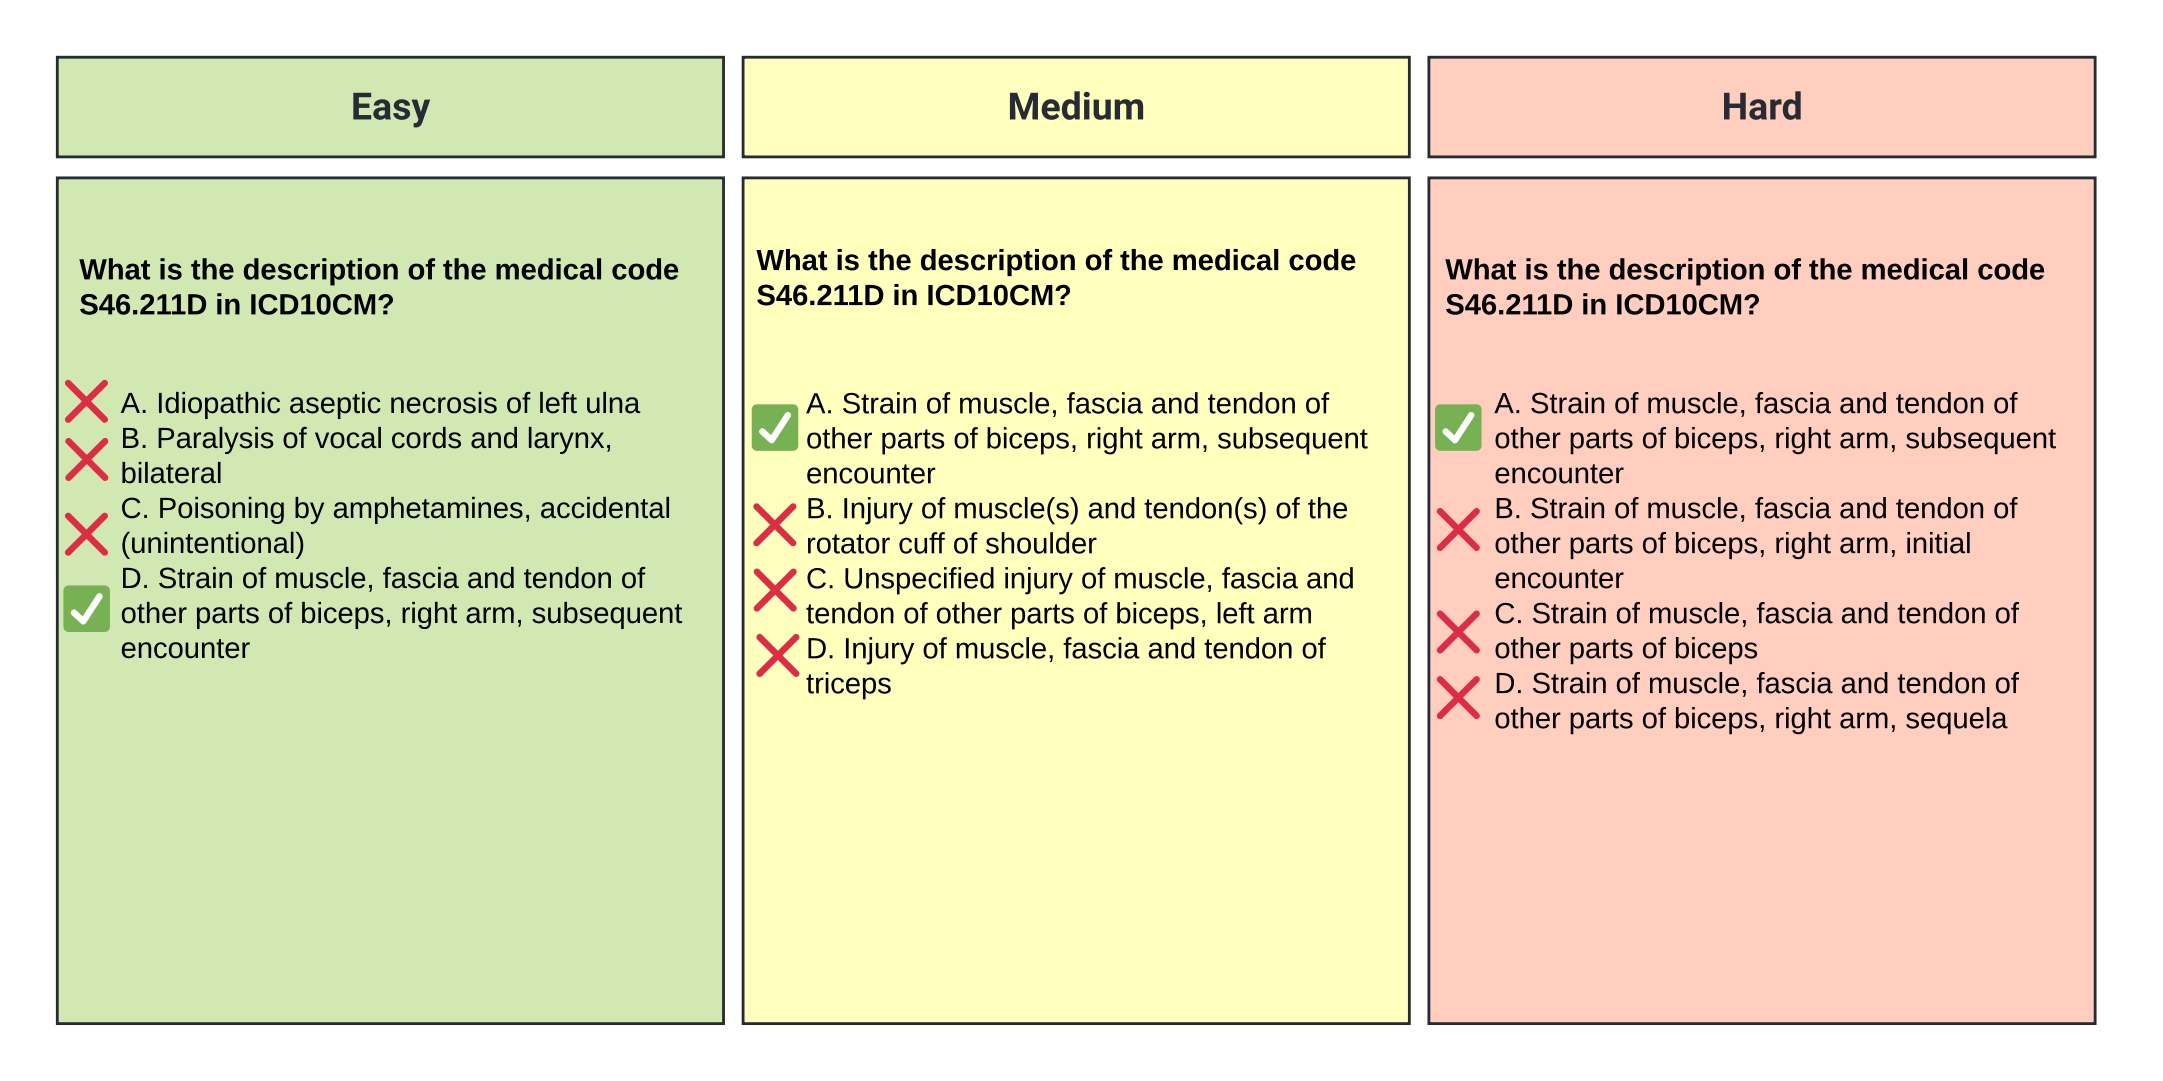
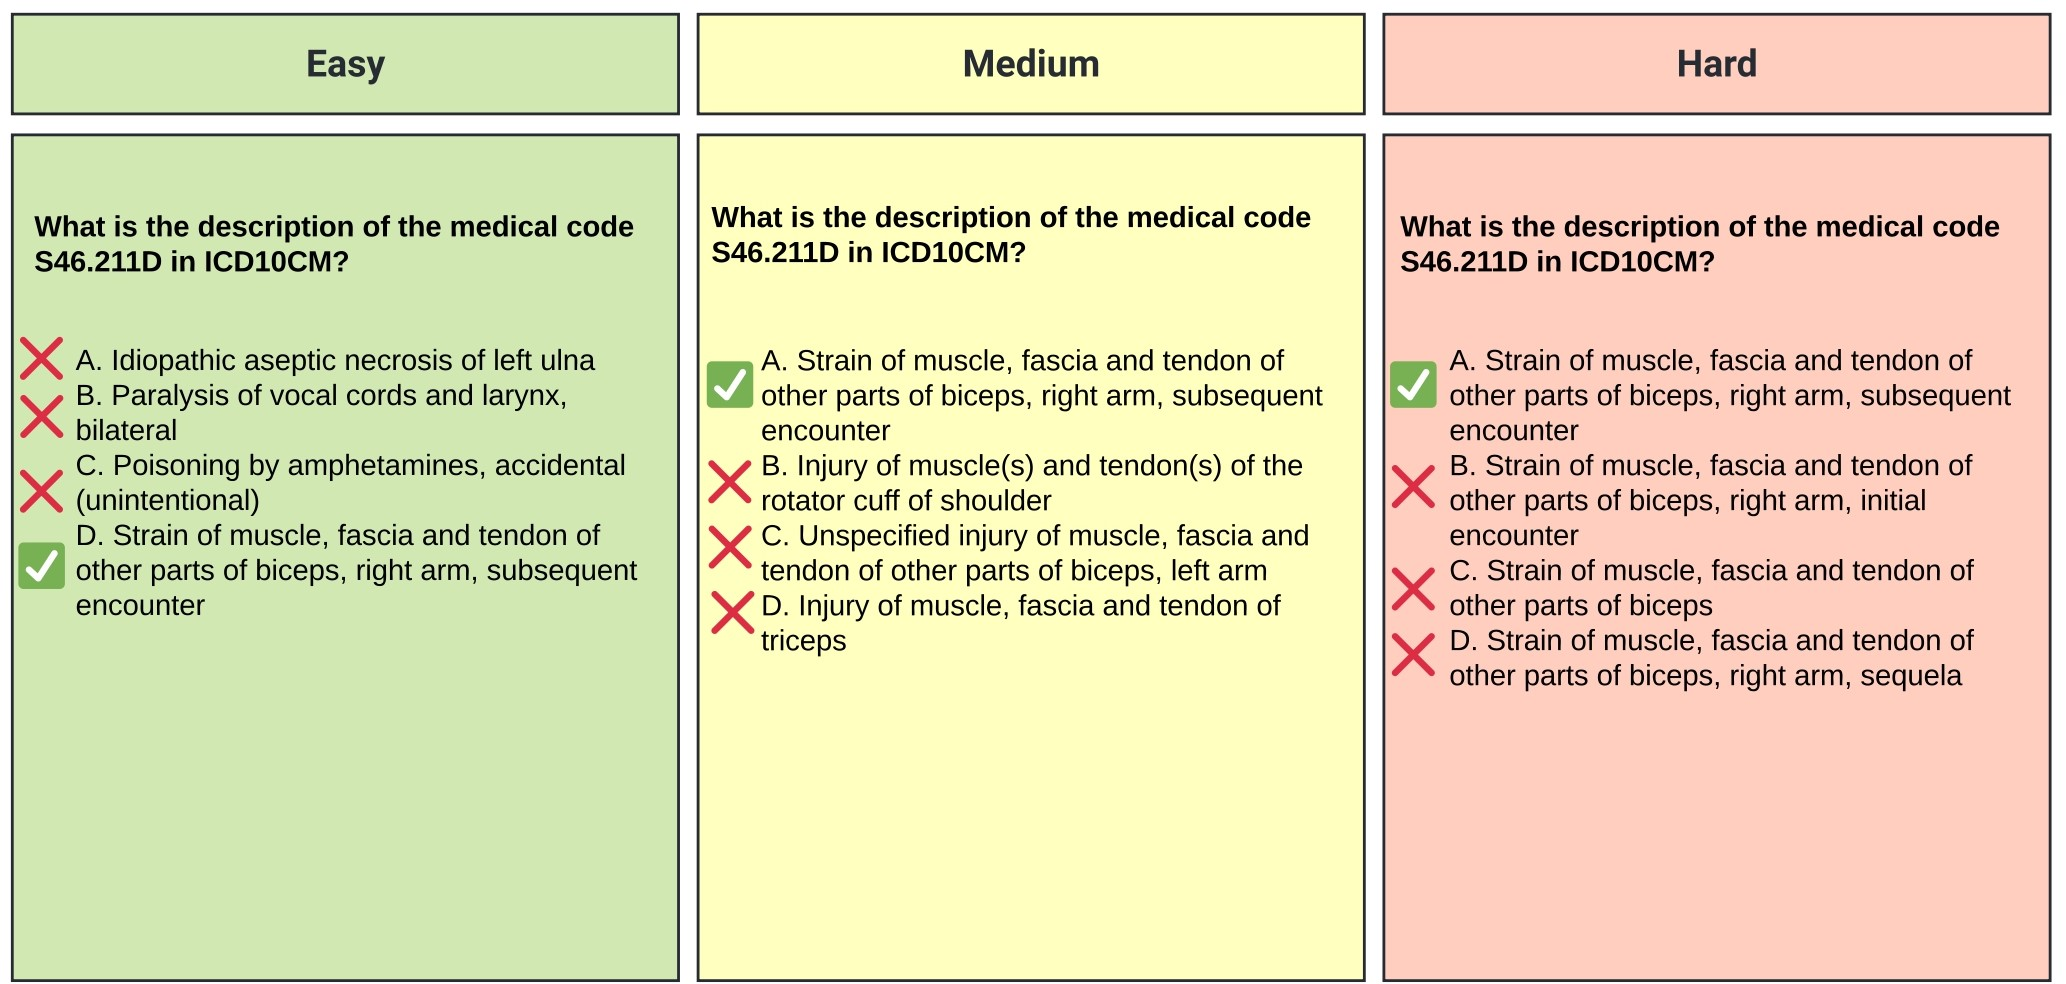
image slightly larger

diff --git a/layouts/index.html b/layouts/index.html
@@ -75,7 +75,7 @@ href="https://fonts.googleapis.com/css?family=Montserrat:400,400i,500,500i,700,7
       <h2 class="text-center text-primary">Overview</h2>
       <hr style="width:40%;margin: 0 auto;" class="mb-3"/>
       <div class="col-lg-12 mx-auto">
-        <img src="/images/MedConceptsQA_questions_for_levels.jpg" class="border-0">
+        <img width="3000px" src="/images/MedConceptsQA_questions_for_levels.jpg" class="border-0">
       </div>
     </div>
     
